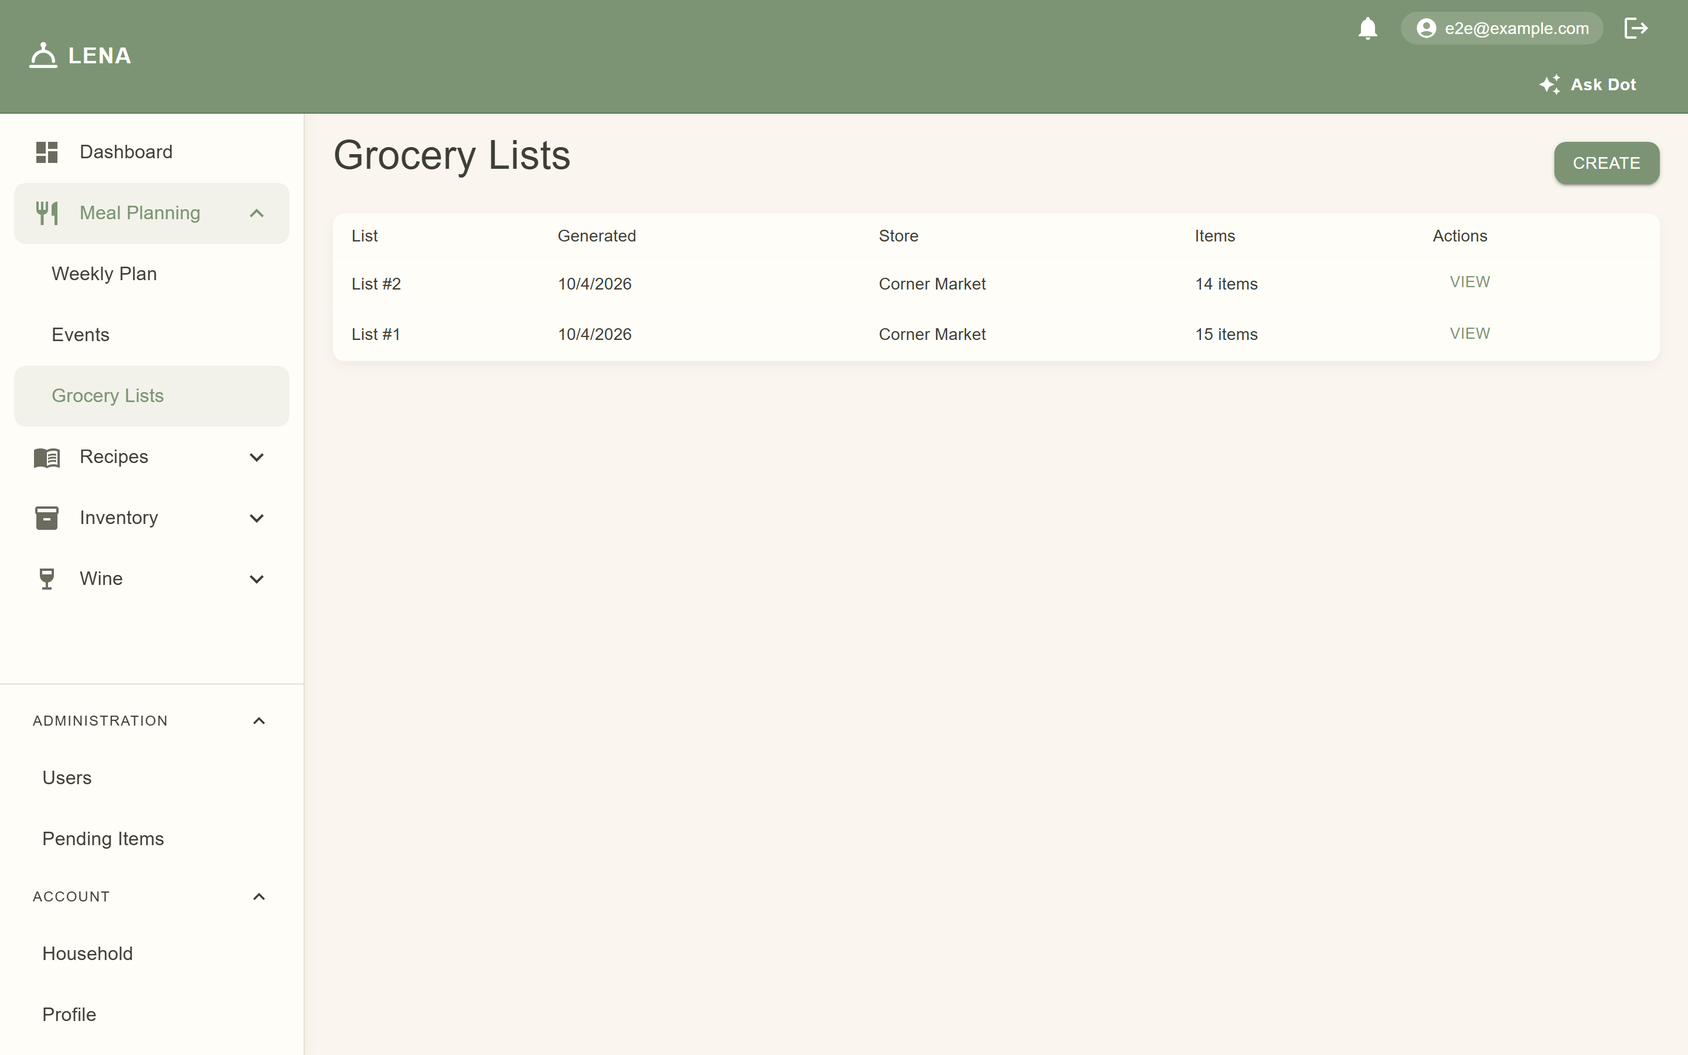
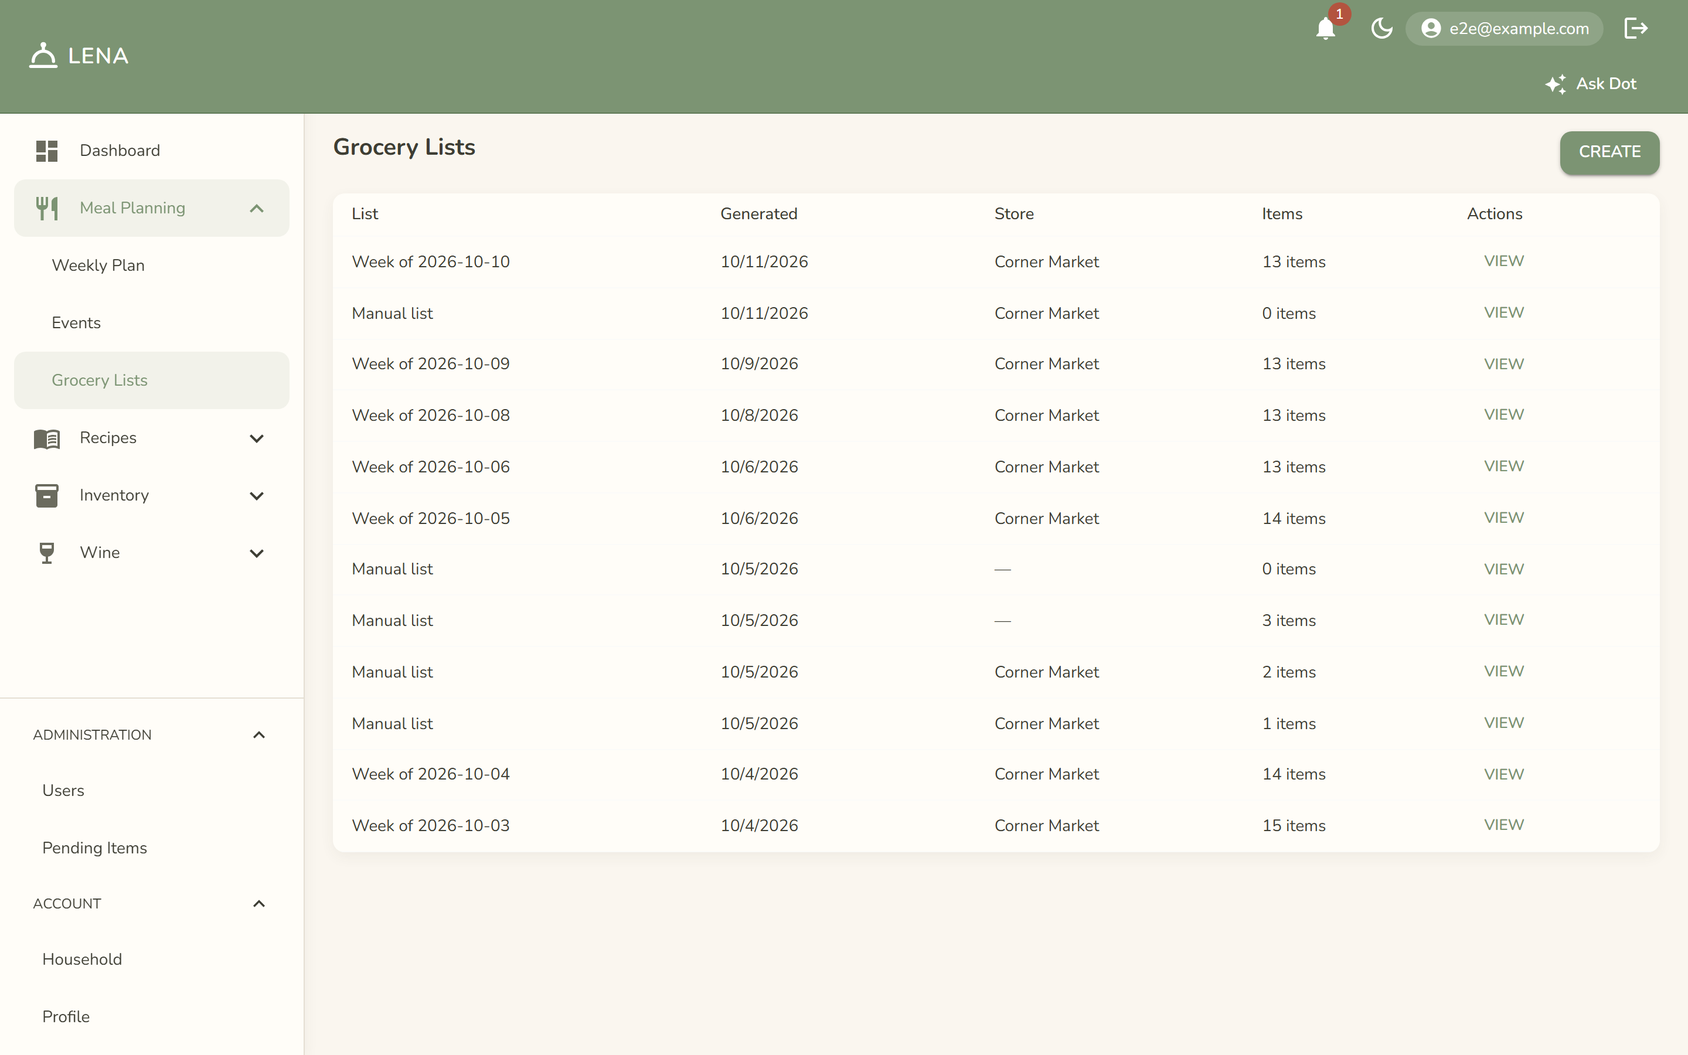
LEN-139: Docs sync — manual grocery lists (#354)
- wiki → /docs/grocery-lists regenerated (md2docs), new
  grocery-create-dialog.png + refreshed grocery-lists.png vendored
- README: /grocery-lists and mobile screen descriptions mention the
  manual (plan-less) list path

Generated with [Devin](https://devin.ai)

diff --git a/clients/web/app/docs/grocery-lists/page.tsx b/clients/web/app/docs/grocery-lists/page.tsx
@@ -15,61 +15,64 @@ export const metadata: Metadata = {
 
 export default function Page() {
   return (
-    <DocPage title={"Grocery Lists"} intro={"Grocery lists turn a meal plan into a shopping trip — generated automatically, checked off as you shop."}>
-      <Section title={"Generating a list"}>
-        <P>{<Fragment key={0}>{"Two ways:"}</Fragment>}</P>
+    <DocPage title={"Grocery Lists"} intro={"Grocery lists turn a meal plan into a shopping trip — generated automatically, checked off as you shop. No plan? A list works on its own too."}>
+      <Section title={"Creating a list"}>
+        <P>{<Fragment key={0}>{"Three ways:"}</Fragment>}</P>
         <DocList items={[
           <Fragment key={1}>{"From a "}<strong key={0}>{"weekly meal plan"}</strong>{" page — "}<strong key={1}>{"Generate Grocery List"}</strong>{" (web)"}</Fragment>,
-          <Fragment key={2}>{"From the "}<strong key={0}>{"Grocery Lists"}</strong>{" page — "}<strong key={1}>{"Generate Grocery List"}</strong>{" and pick the plan and date (web), or the generate dialog on mobile"}</Fragment>,
+          <Fragment key={2}>{"From the "}<strong key={0}>{"Grocery Lists"}</strong>{" page — "}<strong key={1}>{"Create"}</strong>{" and pick a plan from the dropdown (web and mobile both offer the same picker)"}</Fragment>,
+          <Fragment key={3}>{"From the "}<strong key={0}>{"Grocery Lists"}</strong>{" page — "}<strong key={1}>{"Create"}</strong>{" and leave the default "}<strong key={2}>{"Manual list (no meal plan)"}</strong>{" selected"}</Fragment>,
         ]} />
-        <P>{<Fragment key={3}>{"Generating for a plan that already has a list "}<strong key={0}>{"updates that list in place"}</strong>{" — the generated lines are recomputed against the current plan and pantry stock, and anything you added manually stays. You won't end up with two lists for the same week. Your store layout and manual ordering also survive regeneration — they live outside the list's rows."}</Fragment>}</P>
-        <Screenshot src={"/images/grocery-lists.png"} alt={"The Grocery Lists index"} device="web" />
-        <P>{<Fragment key={4}>{"Each line keeps a "}<em key={0}>{"source"}</em>{" note — whether it came from the meal plan, a restock suggestion you tapped "}<strong key={1}>{"Add"}</strong>{" on, or something you typed in yourself — but the list's grouping comes from store routing (below), not the source."}</Fragment>}</P>
+        <P>{<Fragment key={4}>{"A manual list starts empty — type staples, a hardware run, whatever isn't food on a plan. Manual and generated lists sit side by side on the index, labeled by their source plan's name or \"Manual list\"."}</Fragment>}</P>
+        <Screenshot src={"/images/grocery-create-dialog.png"} alt={"The create dialog — pick a plan or stay on the default manual option"} device="web" />
+        <P>{<Fragment key={5}>{"Generating for a plan that already has a list "}<strong key={0}>{"updates that list in place"}</strong>{" — the generated lines are recomputed against the current plan and pantry stock, and anything you added manually stays. You won't end up with two lists for the same week. Your store layout and manual ordering also survive regeneration — they live outside the list's rows."}</Fragment>}</P>
+        <Screenshot src={"/images/grocery-lists.png"} alt={"The Grocery Lists index — manual and plan-sourced lists side by side"} device="web" />
+        <P>{<Fragment key={6}>{"Each line keeps a "}<em key={0}>{"source"}</em>{" note — whether it came from the meal plan, a restock suggestion you tapped "}<strong key={1}>{"Add"}</strong>{" on, or something you typed in yourself — but the list's grouping comes from store routing (below), not the source."}</Fragment>}</P>
         <Screenshot src={"/images/grocery-list.png"} alt={"A grocery list routed through a store — aisle groups with the store picker and Edit Aisles button"} device="web" />
       </Section>
       <Section title={"Store routing"}>
-        <P>{<Fragment key={5}>{"Pick a "}<strong key={0}>{"store"}</strong>{" in the header and the list groups itself into that store's aisles, in walk order — the route you'd naturally take through the store. Items with no aisle land in "}<strong key={1}>{"Other items"}</strong>{" at the bottom."}</Fragment>}</P>
+        <P>{<Fragment key={7}>{"Pick a "}<strong key={0}>{"store"}</strong>{" in the header and the list groups itself into that store's aisles, in walk order — the route you'd naturally take through the store. Items with no aisle land in "}<strong key={1}>{"Other items"}</strong>{" at the bottom."}</Fragment>}</P>
         <DocList items={[
-          <Fragment key={6}><strong key={0}>{"Edit aisles"}</strong>{" (web) — name and order the store's aisles to match how you actually walk it."}</Fragment>,
-          <Fragment key={7}><strong key={0}>{"Rearrange"}</strong>{" — web: drag the handle on the left of a row; mobile: drag within an aisle, or use the row's menu to move between aisles. Dropping an item into a different aisle's group assigns it there. Your arrangement is saved on the server and survives list regeneration — the phone shows the same order as the web."}</Fragment>,
-          <Fragment key={8}><strong key={0}>{"Learning"}</strong>{" — the order you check items off is remembered per store, so over time the generated order converges on your real route. Items the system has only "}<em key={1}>{"guessed"}</em>{" an aisle for show a \"suggested aisle\" hint; dragging or assigning them makes it permanent."}</Fragment>,
+          <Fragment key={8}><strong key={0}>{"Edit aisles"}</strong>{" (web) — name and order the store's aisles to match how you actually walk it."}</Fragment>,
+          <Fragment key={9}><strong key={0}>{"Rearrange"}</strong>{" — web: drag the handle on the left of a row; mobile: drag within an aisle, or use the row's menu to move between aisles. Dropping an item into a different aisle's group assigns it there. Your arrangement is saved on the server and survives list regeneration — the phone shows the same order as the web."}</Fragment>,
+          <Fragment key={10}><strong key={0}>{"Learning"}</strong>{" — the order you check items off is remembered per store, so over time the generated order converges on your real route. Items the system has only "}<em key={1}>{"guessed"}</em>{" an aisle for show a \"suggested aisle\" hint; dragging or assigning them makes it permanent."}</Fragment>,
         ]} />
         <Screenshot src={"/images/grocery-store-picker.png"} alt={"The store picker — which layout to route through"} device="web" />
         <Screenshot src={"/images/grocery-edit-aisles.png"} alt={"The aisle layout editor — rename, reorder, add, delete"} device="web" />
         <Screenshot src={"/images/grocery-move-aisle.png"} alt={"Moving an item to a different aisle from its row menu"} device="web" />
-        <P>{<Fragment key={9}>{"New lists inherit the store your household used most recently — set it once and routing just applies."}</Fragment>}</P>
+        <P>{<Fragment key={11}>{"New lists inherit the store your household used most recently — set it once and routing just applies."}</Fragment>}</P>
       </Section>
       <Section title={"Time to restock"}>
-        <P>{<Fragment key={10}>{"Below the list proper, the "}<strong key={0}>{"Time to restock"}</strong>{" card proposes pantry items that are at or under their "}<DocLink key={1} href="/docs/pantry">{"minimum quantity"}</DocLink>{", ranked by how often your household uses them. Tap "}<strong key={2}>{"Add"}</strong>{" to drop one onto the list — it lands in the unassigned group, and since it's now on the list it stops being suggested."}</Fragment>}</P>
-        <P>{<Fragment key={11}>{"Items you never engage with don't clutter the section: a suggestion needs both low stock "}<em key={0}>{"and"}</em>{" household usage signals."}</Fragment>}</P>
+        <P>{<Fragment key={12}>{"Below the list proper, the "}<strong key={0}>{"Time to restock"}</strong>{" card proposes pantry items that are at or under their "}<DocLink key={1} href="/docs/pantry">{"minimum quantity"}</DocLink>{", ranked by how often your household uses them. Tap "}<strong key={2}>{"Add"}</strong>{" to drop one onto the list — it lands in the unassigned group, and since it's now on the list it stops being suggested."}</Fragment>}</P>
+        <P>{<Fragment key={13}>{"Items you never engage with don't clutter the section: a suggestion needs both low stock "}<em key={0}>{"and"}</em>{" household usage signals."}</Fragment>}</P>
       </Section>
       <Section title={"Shopping with the list"}>
-        <P>{<Fragment key={12}>{"Open the list and check items off as you go — each check saves immediately, so if your partner is holding the same list on their phone, they see the check appear."}</Fragment>}</P>
+        <P>{<Fragment key={14}>{"Open the list and check items off as you go — each check saves immediately, so if your partner is holding the same list on their phone, they see the check appear."}</Fragment>}</P>
         <DocList items={[
-          <Fragment key={13}><strong key={0}>{"Check/uncheck"}</strong>{" — tap the checkbox"}</Fragment>,
-          <Fragment key={14}><strong key={0}>{"Delete a line"}</strong>{" — trash icon, for things you decided not to buy"}</Fragment>,
-          <Fragment key={15}><strong key={0}>{"Add a manual item"}</strong>{" — name, quantity, and unit; lands in the unassigned group until you give it an aisle"}</Fragment>,
+          <Fragment key={15}><strong key={0}>{"Check/uncheck"}</strong>{" — tap the checkbox"}</Fragment>,
+          <Fragment key={16}><strong key={0}>{"Delete a line"}</strong>{" — trash icon, for things you decided not to buy"}</Fragment>,
+          <Fragment key={17}><strong key={0}>{"Add a manual item"}</strong>{" — name, quantity, and unit; lands in the unassigned group until you give it an aisle"}</Fragment>,
         ]} />
-        <P>{<Fragment key={16}>{"If you're both shopping at once, keep the list open — checks sync in real time."}</Fragment>}</P>
+        <P>{<Fragment key={18}>{"If you're both shopping at once, keep the list open — checks sync in real time."}</Fragment>}</P>
       </Section>
       <Section title={"Shop with Instacart"}>
-        <P>{<Fragment key={17}>{"When the server has a shopping provider configured, a "}<strong key={0}>{"Shop with Instacart"}</strong>{" button appears in the list header. Tap it and LENA pushes the list's "}<em key={1}>{"unchecked"}</em>{" lines to Instacart, then shows you a shareable link — open it in a new tab to pick a store and check out on Instacart's site, or copy it to send to whoever's doing the shop. Nothing is silently added to a cart: the link opens a shopping list on the provider's side, and the purchase decision stays yours."}</Fragment>}</P>
+        <P>{<Fragment key={19}>{"When the server has a shopping provider configured, a "}<strong key={0}>{"Shop with Instacart"}</strong>{" button appears in the list header. Tap it and LENA pushes the list's "}<em key={1}>{"unchecked"}</em>{" lines to Instacart, then shows you a shareable link — open it in a new tab to pick a store and check out on Instacart's site, or copy it to send to whoever's doing the shop. Nothing is silently added to a cart: the link opens a shopping list on the provider's side, and the purchase decision stays yours."}</Fragment>}</P>
         <Screenshot src={"/images/grocery-list-shop.png"} alt={"A grocery list with the Shop with Instacart button in the header"} device="web" />
-        <P>{<Fragment key={18}>{"Lines named by a catalog item or remembered usual brand carry UPCs and a brand filter, so the link lands on the right product more often than not. Checked lines are left off the link by default — if your list had any when you pressed the button, the dialog says so."}</Fragment>}</P>
+        <P>{<Fragment key={20}>{"Lines named by a catalog item or remembered usual brand carry UPCs and a brand filter, so the link lands on the right product more often than not. Checked lines are left off the link by default — if your list had any when you pressed the button, the dialog says so."}</Fragment>}</P>
         <Screenshot src={"/images/grocery-shop-link.png"} alt={"The shopping-link dialog with copy and open actions"} device="web" />
-        <P>{<Fragment key={19}>{"The button only renders when "}<code key={0}>{"shopperProviders"}</code>{" reports a configured provider (server-side "}<code key={1}>{"LENA_INSTACART_API_KEY"}</code>{"), so deployments without a key never show a dead action."}</Fragment>}</P>
+        <P>{<Fragment key={21}>{"The button only renders when "}<code key={0}>{"shopperProviders"}</code>{" reports a configured provider (server-side "}<code key={1}>{"LENA_INSTACART_API_KEY"}</code>{"), so deployments without a key never show a dead action."}</Fragment>}</P>
       </Section>
       <Section title={"Ingredients and usual brands"}>
-        <P>{<Fragment key={20}>{"Lines that came from "}<DocLink key={0} href="/docs/ingredients">{"ingredient-keyed recipe lines"}</DocLink>{" display the ingredient name rather than a product — "}<em key={1}>{"garlic"}</em>{" instead of "}<em key={2}>{"Ahold Garlic Salt"}</em>{". Lines with a remembered brand show a \"usually buys …\" caption so you know which product to grab."}</Fragment>}</P>
-        <P>{<Fragment key={21}>{"The first time you check off an ingredient-only line, LENA asks "}<strong key={0}>{"which brand you bought"}</strong>{" — pick it and the pantry is credited with that item, and it becomes your household's usual brand for that ingredient. After that, the line checks straight off. You can also check off without a brand to stay generic."}</Fragment>}</P>
+        <P>{<Fragment key={22}>{"Lines that came from "}<DocLink key={0} href="/docs/ingredients">{"ingredient-keyed recipe lines"}</DocLink>{" display the ingredient name rather than a product — "}<em key={1}>{"garlic"}</em>{" instead of "}<em key={2}>{"Ahold Garlic Salt"}</em>{". Lines with a remembered brand show a \"usually buys …\" caption so you know which product to grab."}</Fragment>}</P>
+        <P>{<Fragment key={23}>{"The first time you check off an ingredient-only line, LENA asks "}<strong key={0}>{"which brand you bought"}</strong>{" — pick it and the pantry is credited with that item, and it becomes your household's usual brand for that ingredient. After that, the line checks straight off. You can also check off without a brand to stay generic."}</Fragment>}</P>
         <Screenshot src={"/images/grocery-brand-picker.png"} alt={"The brand picker on first check-off of an ingredient line"} device="web" />
-        <P>{<Fragment key={22}>{"Lines that conflict with a household member's "}<DocLink key={0} href="/docs/allergy-tracking">{"allergy records"}</DocLink>{" carry a warning chip too — check it before something risky ends up in the cart."}</Fragment>}</P>
+        <P>{<Fragment key={24}>{"Lines that conflict with a household member's "}<DocLink key={0} href="/docs/allergy-tracking">{"allergy records"}</DocLink>{" carry a warning chip too — check it before something risky ends up in the cart."}</Fragment>}</P>
       </Section>
       <Section title={"What's on the list vs. in the pantry"}>
-        <P>{<Fragment key={23}>{"The generator already subtracts your "}<DocLink key={0} href="/docs/pantry">{"pantry stock"}</DocLink>{" from each recipe's needs — if the plan needs 2 lb of potatoes and you have 2 lb on hand, the line never appears. So the more honest your pantry counts are, the shorter and more accurate your list gets. Stock recorded in a different unit is converted when the units are compatible; when they aren't, the full amount stays on the list."}</Fragment>}</P>
+        <P>{<Fragment key={25}>{"The generator already subtracts your "}<DocLink key={0} href="/docs/pantry">{"pantry stock"}</DocLink>{" from each recipe's needs — if the plan needs 2 lb of potatoes and you have 2 lb on hand, the line never appears. So the more honest your pantry counts are, the shorter and more accurate your list gets. Stock recorded in a different unit is converted when the units are compatible; when they aren't, the full amount stays on the list."}</Fragment>}</P>
       </Section>
       <Section title={"After the trip"}>
-        <P>{<Fragment key={24}>{"Checked items stay checked as a record of the trip. When you unpack, open the mobile app's "}<strong key={0}>{"Scan"}</strong>{" tab and scan barcodes to add purchases to pantry stock — that's what keeps the stock subtraction accurate next week."}</Fragment>}</P>
+        <P>{<Fragment key={26}>{"Checked items stay checked as a record of the trip. When you unpack, open the mobile app's "}<strong key={0}>{"Scan"}</strong>{" tab and scan barcodes to add purchases to pantry stock — that's what keeps the stock subtraction accurate next week."}</Fragment>}</P>
       </Section>
     </DocPage>
   );

diff --git a/README.md b/README.md
@@ -77,7 +77,7 @@ The web client (`clients/web`) serves two surfaces: a **public site** at `/` —
 - `/recipes` — recipe list, detail, and edit with ingredients and steps (including per-step timing metadata). Category filters narrow the list server-side; assignments happen on the detail page. `/recipes/categories` is the admin's taxonomy manager (groups, exclusivity, display order, categories). Recipes surface **allergy warnings** — a chip on list rows and an alert on the detail page naming which household member conflicts and how. Any household member can also apply **household tweaks** — swap, adjust, remove, or add ingredient lines and steps as a per-household delta over the shared recipe; the tweaks panel lives on the detail page (and in the mobile recipe screen), with an Original recipe toggle, a stale banner when the canonical recipe changes, and deltas applied to planning, grocery lists, scaling, event snapshots, and AI suggestions.
 - `/meal-plans` — weekly meal plans with daily slots and per-slot servings; slot rows carry the same allergy-warning chips.
 - `/events` — food events: dish slots with granularity-snapped serve times, per-slot recipe snapshots (steps + ingredients copied per event so edits never touch the shared recipe), servings scaling, and a generated cooking timeline with conflict warnings and allergy warnings.
-- `/grocery-lists` — shopping lists generated from meal plans, with check-off, plus a **Time to restock** section listing pantry items at or below their minimum, ranked by household engagement. Flagged rows show an allergy-warning chip. Each list can be routed through a household-defined **store**: the server groups items into the store's ordered aisles, learns per-item positions from check-off order, and honors your manual arrangement (drag handles or the move-to menu) across regenerated lists. Web and mobile render the same server-computed order. When `LENA_INSTACART_API_KEY` is configured, a **Shop with Instacart** action pushes the unchecked lines to Instacart's Developer Platform and hands back a shareable shopping-list link (copy or open — checkout happens on Instacart's site).
+- `/grocery-lists` — shopping lists generated from meal plans or created manually (no plan required), with check-off, plus a **Time to restock** section listing pantry items at or below their minimum, ranked by household engagement. Flagged rows show an allergy-warning chip. Each list can be routed through a household-defined **store**: the server groups items into the store's ordered aisles, learns per-item positions from check-off order, and honors your manual arrangement (drag handles or the move-to menu) across regenerated lists. Web and mobile render the same server-computed order. When `LENA_INSTACART_API_KEY` is configured, a **Shop with Instacart** action pushes the unchecked lines to Instacart's Developer Platform and hands back a shareable shopping-list link (copy or open — checkout happens on Instacart's site).
 - **OCR recipe import** — bulk-import scanned cookbook pages, recipe cards, and photos using local OCR and a local LLM. Admin-only; see `docs/recipe-ocr-usage.md`.
 
 ### Wine cellar

diff --git a/clients/mobile/README.md b/clients/mobile/README.md
@@ -181,7 +181,7 @@ gated artifacts.
 - `lib/screens/meal_plan_week_screen.dart` — week-oriented plan view: 7-day × meal-type grid on wide panes, scrolling day sections on narrow; slot add/edit/remove, server `suggestMeals` sheet, `nutrition` sheet.
 - `lib/screens/cook_mode_screen.dart` — cook mode: full-screen `PageView` of effective-view steps with big type, step-type/hands-off badges, `durationMinutes` countdown chips, and `wakelock_plus` keep-awake (enable on init, disable on dispose). Ingredients are a left rail on wide panes, a bottom sheet on narrow.
 - `lib/screens/dashboard_screen.dart` + `dashboard_content.dart` — Dashboard GraphQL wrapper + the greeting/meals/recommendations layout; display logic lives in pure helpers under `lib/dashboard_helpers.dart`.
-- `lib/screens/grocery_lists_screen.dart` + `grocery_list_screen.dart` — Grocery list list/detail; the detail screen renders the server's `groceryRouteGroups` verbatim (aisle-grouped, per-group `ReorderableListView`, "move to aisle" menu, store picker). Ingredient-only lines show a `usual:` caption once a brand is remembered; the first check-off opens a brand picker (`checkGroceryItemWithBrand`) that records the household's usual.
+- `lib/screens/grocery_lists_screen.dart` + `grocery_list_screen.dart` — Grocery list list/detail; the create dialog (`generate_grocery_dialog.dart`) offers any meal plan or a default manual (plan-less) list, and rows are labeled by their source plan or "Manual list". The detail screen renders the server's `groceryRouteGroups` verbatim (aisle-grouped, per-group `ReorderableListView`, "move to aisle" menu, store picker). Ingredient-only lines show a `usual:` caption once a brand is remembered; the first check-off opens a brand picker (`checkGroceryItemWithBrand`) that records the household's usual.
 - `lib/screens/pantry_screen.dart` — Pantry quantities.
 - `lib/screens/recipes_screen.dart` + `edit_recipe_screen.dart` — recipe list (search, category filters) and the recipe detail/editor. Detail defaults to the household-effective view (`items(view:)`/`steps(view:)`); `householdDelta` drives the Household/Original toggle, the stale banner (`acknowledgeRecipeDelta`), and per-line/per-step delta badges. `recipe_tweaks.dart` renders the tweaks card + bottom-sheet editors (swap/adjust/remove/add for lines, replace/remove/add for steps) saving through `setRecipeDelta`/`clearRecipeDelta`; `lib/recipe_delta.dart` holds the pure draft model, `describe*Change` copy, serialization, and dirty-check equality.
 - `lib/screens/scan_screen.dart` — Barcode scan, UPC lookup, add/remove pantry, submit new items; UPC hits display the resolved ingredient (household override wins) with a link-ingredient prompt (`setHouseholdItemIngredient`).
